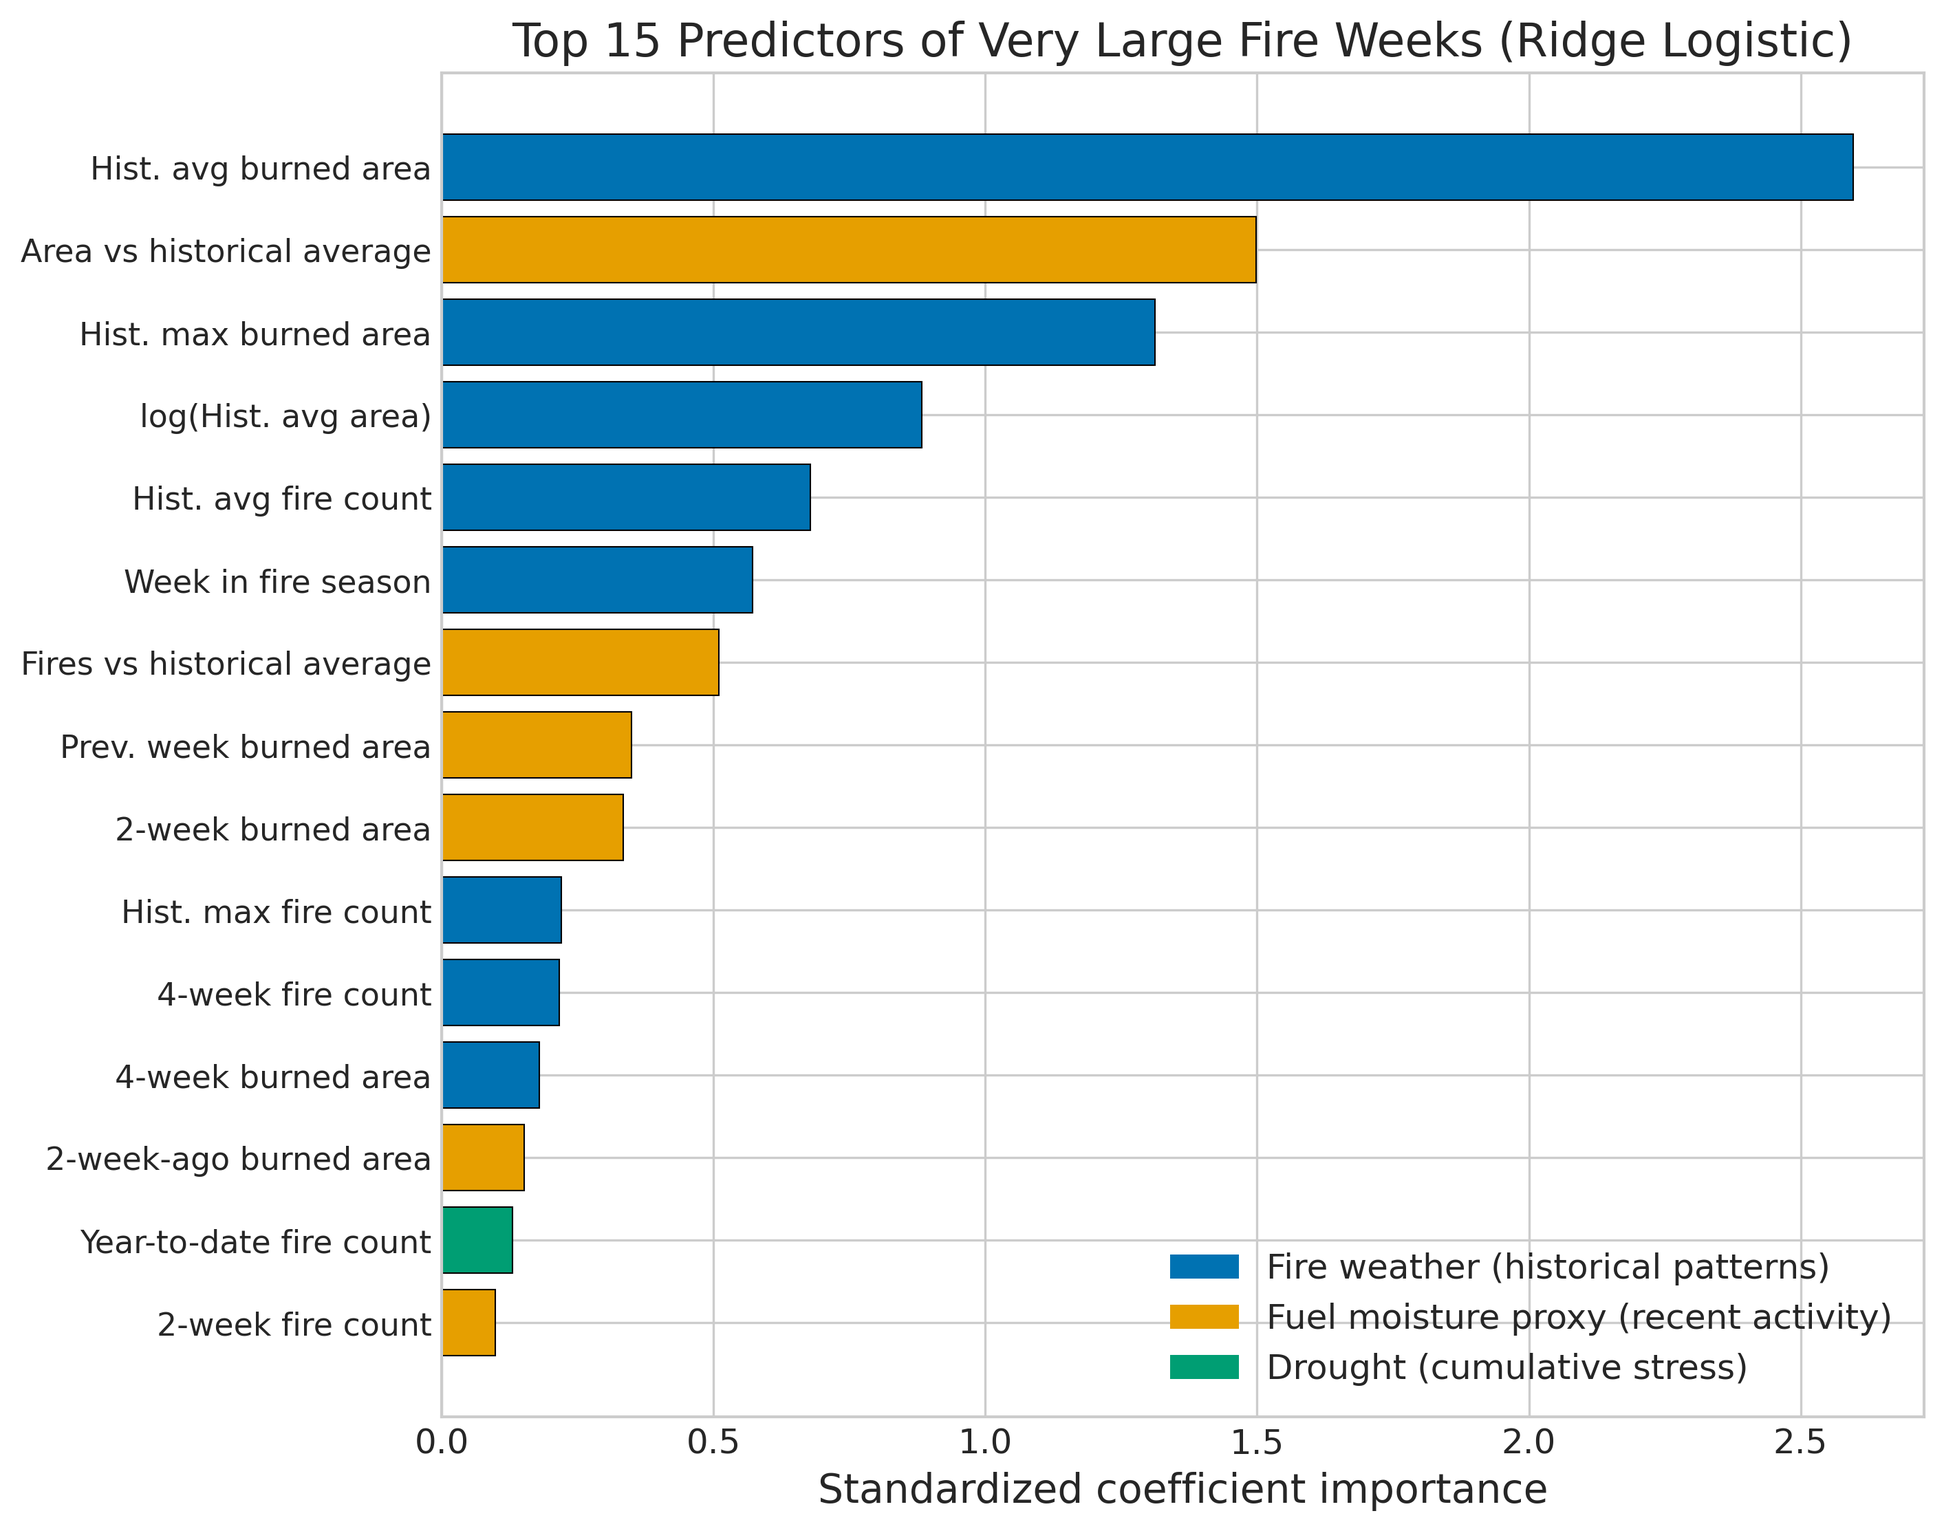
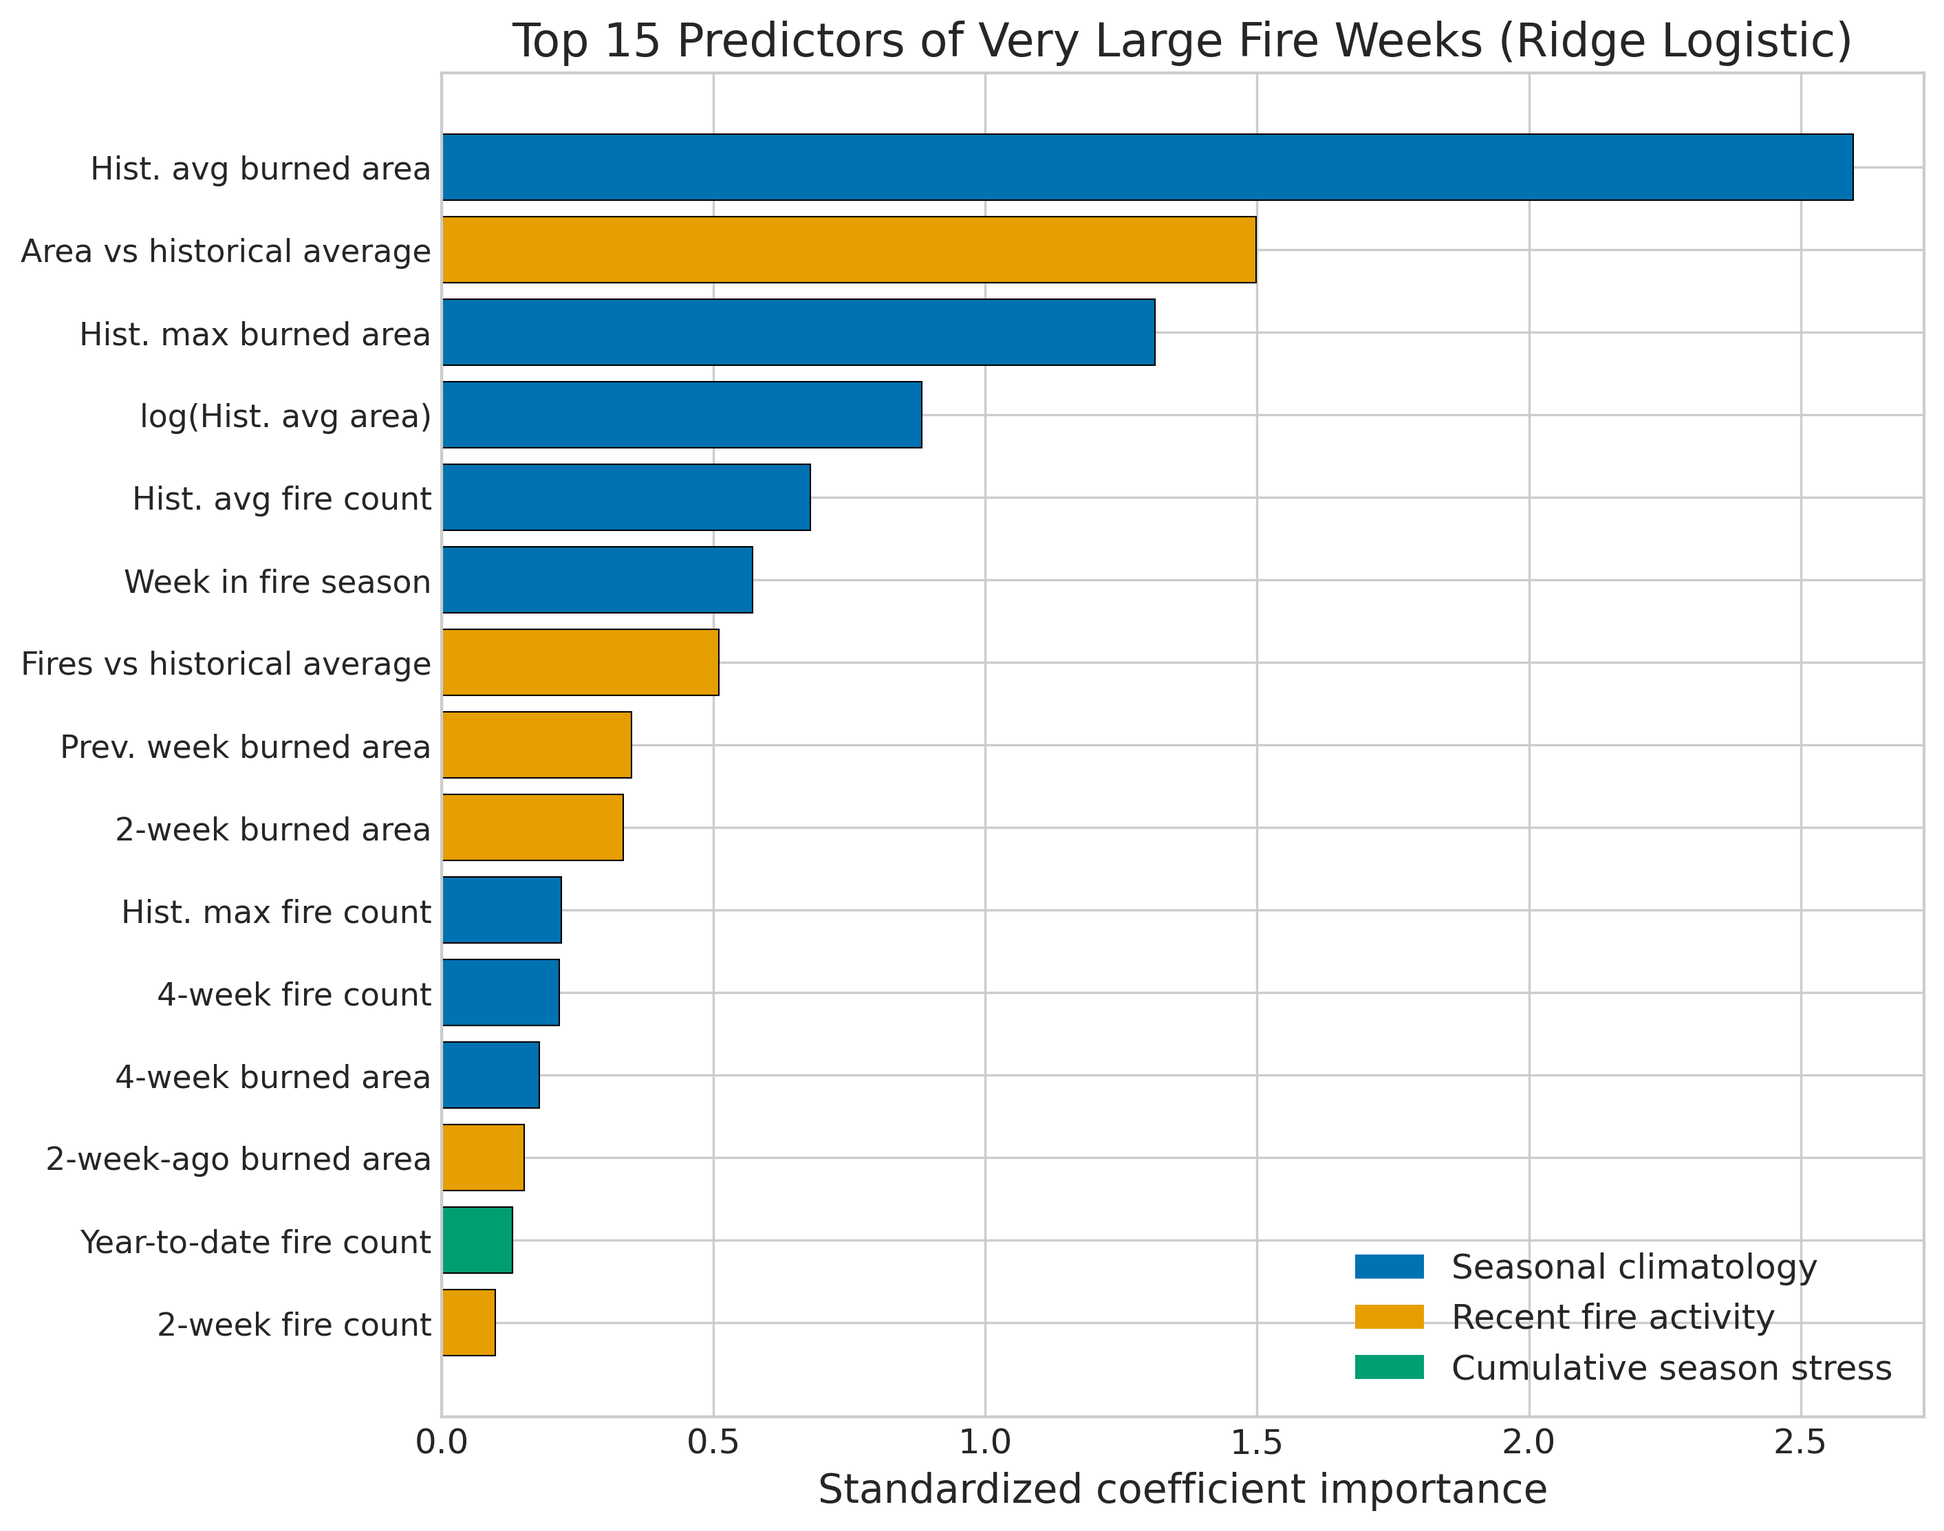
iberian-wildfire: update website summary for honest reframing
Retract "outpredicts fire weather" claim. New title reflects actual finding:
lagged fire activity outperforms seasonal climatology. Add persistence analysis
and threshold sensitivity plots. Explicitly state what study does NOT show.

Changed region(s): [[0.5916, 0.8059, 0.9653, 0.8989]]

diff --git a/content/hdr/results/iberian-wildfire/index.md b/content/hdr/results/iberian-wildfire/index.md
@@ -1,10 +1,10 @@
 ---
-title: "Recent Fire Activity Predicts Catastrophic Wildfire Weeks Better Than Historical Fire Danger"
+title: "Lagged Fire Activity Outperforms Seasonal Climatology for Predicting Catastrophic Wildfire Weeks"
 date: 2026-04-10
 weight: 6
-blurb: "Which weeks on the Iberian Peninsula produce catastrophic wildfires? We tested three predictor families using 14 years of real satellite fire data. Recent fire dynamics -- not traditional fire danger indices -- are the strongest signal."
+blurb: "Which weeks on the Iberian Peninsula produce catastrophic wildfires? We tested three predictor families derived from fire activity data using 14 years of satellite observations. Recent fire dynamics -- not historical seasonal patterns -- are the strongest signal, even after controlling for fire persistence."
 domain: "Wildfire Risk / Mediterranean Fire Ecology"
-tags: ["wildfire", "fire-risk", "Portugal", "Spain", "Iberian-Peninsula", "EFFIS", "very-large-fires", "fire-weather-index", "fuel-moisture", "MODIS", "temporal-cross-validation"]
+tags: ["wildfire", "fire-risk", "Portugal", "Spain", "Iberian-Peninsula", "EFFIS", "very-large-fires", "autoregressive", "MODIS", "temporal-cross-validation"]
 ---
 
 *This is a short summary. For the full technical write-up, see the [detailed paper](https://github.com/colinjoc/hdr_autoresearch/blob/master/applications/iberian_wildfire/paper.md).*
@@ -13,52 +13,59 @@ tags: ["wildfire", "fire-risk", "Portugal", "Spain", "Iberian-Peninsula", "EFFIS
 
 The Iberian Peninsula burns more than any other part of Western Europe. Portugal and Spain between them lose hundreds of thousands of hectares of forest every year, and in extreme years -- 2017, 2022, 2025 -- the losses reach catastrophic levels. In June 2017, the Pedrogao Grande fire killed 66 people in central Portugal. In August 2025, 22 simultaneous very large fires overwhelmed suppression capacity across northwestern Iberia.
 
-Not all fire weeks are equal. Most weeks during the fire season produce moderate burning that suppression crews can contain. But a small fraction of weeks -- roughly one in eight -- produce very large fires that account for the vast majority of total burned area and virtually all fire fatalities. If those weeks could be identified in advance, resources could be pre-positioned and alerts escalated before fires grow beyond control.
+Not all fire weeks are equal. Most weeks during the fire season produce moderate burning that suppression crews can contain. But a small fraction of weeks -- roughly one in eight -- produce very large fires (VLFs, over 5,000 hectares burned at the country level) that account for the vast majority of total burned area and virtually all fire fatalities.
 
-The standard tool is the Fire Weather Index (FWI), a system originally developed for Canadian boreal forests and now used operationally across the European Union. A competing approach uses satellite-derived live fuel moisture content (LFMC), which measures how dry the living vegetation actually is. A third approach tracks cumulative drought stress. We asked: which of these three predictor families best identifies the weeks that produce very large fires?
+We asked: what signals from fire activity data best identify these catastrophic weeks? We constructed three predictor families from satellite-detected fire observations: seasonal climatology (what usually burns each week of the year), recent fire dynamics (how current burning compares to historical norms and what burned in recent weeks), and cumulative season stress (total fire activity year-to-date). We deliberately did not include actual meteorological data (temperature, humidity, wind, the Fire Weather Index) in this study, which limits the scope of our conclusions.
 
 ## What We Found
 
-We used 14 years (2012-2025) of real weekly fire statistics from the European Forest Fire Information System (EFFIS), covering every detected wildfire in Portugal and Spain. We tested three predictor families using strict temporal cross-validation -- always training on past years and testing on future years, never allowing information leakage.
+We used 14 years (2012-2025) of real weekly fire statistics from the European Forest Fire Information System (EFFIS), covering every detected wildfire in Portugal and Spain. We tested predictor families using strict temporal cross-validation -- always training on past years and testing on future years -- with 95% bootstrap confidence intervals.
 
-- Recent fire activity dynamics -- how this week's burning compares to historical patterns, what happened last week and the week before -- far outperform traditional fire weather indices for predicting very large fire weeks. The fuel moisture proxy achieves a cross-validated area under the receiver operating characteristic curve (AUC) of 0.952, versus 0.809 for fire weather features alone.
-- Combining all three predictor families does not improve over the full baseline model. The fuel moisture proxy carries the dominant signal; adding fire weather and drought features on top provides no additional lift.
-- Gradient-boosted trees (XGBoost) achieve a cross-validated AUC of 0.993 and perfect identification of all 14 very large fire weeks in the 2025 holdout year. Logistic regression achieves AUC 0.926 -- strong but not as effective as the tree-based models.
-- The top predictors are historical average burned area for each week (capturing seasonal fire climatology), the ratio of current-week fire activity to the historical average (the anomaly signal), and previous-week burned area (the momentum signal).
+**Recent fire activity features dominate.** The ratio of current burning to historical averages, plus lagged burned area from the previous 1-2 weeks, achieves a cross-validated area under the receiver operating characteristic curve (AUC) of 0.952 (95% confidence interval: 0.934-0.968). Seasonal climatology features alone achieve AUC 0.809 (CI: 0.768-0.848). The confidence intervals do not overlap. This advantage holds with both Ridge logistic regression and XGBoost, and across VLF thresholds from 1,000 to 20,000 hectares.
 
-![Recent fire dynamics outperform fire weather indices for predicting very large fire weeks](plots/headline_finding.png)
+**But nearly half of VLF weeks are persistence events.** 47% of VLF weeks are immediately preceded by another VLF week -- the same fire burning across a weekly boundary. A trivial persistence baseline (predict VLF from last week's burned area alone) achieves AUC 0.814. When we restrict evaluation to VLF onset events only (excluding weeks that continue an existing VLF), the recent fire activity advantage persists (AUC 0.921 vs. 0.799) but the overall metrics are modestly lower. This means the model is partly detecting fires that are already burning, which is less useful operationally than predicting new VLF onset.
 
-## Why That's Surprising
+**Tree models substantially outperform linear models.** XGBoost achieves AUC 0.993 in temporal cross-validation, compared to 0.926 for Ridge logistic regression, indicating nonlinear threshold effects in VLF transitions. Per-year analysis shows XGBoost exceeds AUC 0.977 in every test year from 2015 to 2025.
 
-The expectation from the fire science literature was that fire weather -- temperature, humidity, wind, precipitation combined into the FWI system -- would be the primary predictor of which weeks produce very large fires. The FWI system is the operational standard across the European Union, and billions of euros in suppression resource allocation decisions are made on the basis of FWI forecasts.
+![Predictor family comparison: recent fire activity features outperform seasonal climatology in both Ridge and XGBoost](plots/headline_finding.png)
 
-What we found instead is that the strongest predictor of a very large fire week is what has been burning recently. This makes physical sense -- a week of active large fires indicates that the fuel moisture, wind, and drought conditions are already aligned for extreme fire behavior. But it inverts the operational logic. The current approach asks "will weather conditions support large fires?" The more predictive approach asks "are conditions already producing large fires?"
+## What This Does NOT Show
 
-The difference matters because fire weather can be extreme without producing large fires (when fuels are still green, or when ignitions are suppressed), and large fires can occur under apparently moderate fire weather (when drought has preconditioned fuels over weeks or months). Recent fire activity integrates all of these factors into a single observable signal.
+An earlier version of this paper claimed that "fuel moisture proxies outpredict fire weather indices." That claim was wrong, for three reasons:
 
-![The top predictors combine historical fire seasonality with recent fire anomalies](plots/feature_importance.png)
+1. **No actual fire weather data was used.** The seasonal climatology features (historical averages and maxima of fire activity) are not fire weather measurements. The Fire Weather Index is computed from temperature, humidity, wind, and precipitation. None of these variables were included.
 
-## What It Means
+2. **The "fuel moisture proxy" was not fuel moisture.** It was lagged fire activity -- an autoregressive feature, not a physical measurement of vegetation moisture content. Labelling it "LFMC" borrowed credibility from the remote-sensing fuel moisture literature.
 
-For fire managers on the Iberian Peninsula, this finding suggests a specific operational improvement: track not just forecasted fire weather but actual ongoing fire activity relative to seasonal expectations. When the ratio of current burning to historical average exceeds a threshold during fire season, escalate the alert level and pre-position heavy suppression resources. This "anomaly-based" alert would have correctly identified every very large fire week in the 2025 holdout test.
+3. **The comparison was between autoregressive features and a seasonal baseline.** Finding that "what is burning now" outpredicts "what usually burns this week" is expected because current conditions are more informative than long-term averages.
 
-The seasonal risk profile shows that Portugal's peak fire risk is concentrated in a narrow window from late July through September, while Spain's risk is more diffuse across the summer. Both countries show that late-season fires (September-October) are particularly dangerous when preceded by weeks of active burning -- the cumulative drought and fuel depletion create conditions for rapid fire growth.
+The revised paper uses honest terminology throughout: "recent fire activity" instead of "fuel moisture proxy," and "seasonal climatology" instead of "fire weather proxy." Whether actual meteorological fire weather indices are outperformed remains an open question requiring gridded reanalysis data.
 
-For the broader question of fire risk under climate change: if the predictive signal is dominated by recent fire activity rather than weather alone, then the increasing frequency and duration of fire seasons documented by climate projections will compound risk in a way that weather-based indices may underestimate. Each large fire week makes the next one more likely, creating a positive feedback that fixed fire weather thresholds cannot capture.
+![47% of VLF weeks are persistence events -- the same fire continuing across a weekly boundary](plots/persistence_analysis.png)
 
-![Seasonal risk profile for Portugal and Spain shows distinct fire regime patterns](plots/seasonal_risk.png)
+## Why It Still Matters
+
+Even with the corrected framing, the finding is operationally relevant. The recent fire activity features capture a real signal: when burning significantly exceeds seasonal expectations, conditions (weather, fuel moisture, drought, suppression capacity) are aligned for extreme fire behavior. This signal predicts *new* VLF onset (AUC 0.921), not just ongoing fires.
+
+For fire agencies already monitoring EFFIS weekly statistics, tracking the ratio of current fire activity to the historical average for each calendar week provides a useful alert signal. When current-week burning exceeds twice the historical average during fire season, the probability of new VLFs developing is elevated.
+
+However, this is a modest operational suggestion, not an alert system. Country-level weekly indicators lack the spatial specificity and temporal precision that operational fire management requires.
+
+![Threshold sensitivity: the advantage of recent fire activity features increases at more extreme VLF thresholds](plots/threshold_sensitivity.png)
 
 ## How We Did It
 
-We downloaded 14 years of weekly fire statistics (fire counts and burned area) from the European Forest Fire Information System (EFFIS) via the GWIS country profile API, supplemented by MODIS-derived burned area data (MCD64A1) and GlobFire event records from the GWIS data archive. All data are real satellite observations -- no synthetic data were used at any stage. We defined a "very large fire week" as a country-week with total burned area exceeding 5,000 hectares, which captures approximately 13 percent of fire-season weeks and accounts for the overwhelming majority of total burned area and fire impacts.
+We downloaded 14 years of weekly fire statistics from the European Forest Fire Information System (EFFIS) via the GWIS country profile API, supplemented by MODIS-derived burned area data (MCD64A1) and GlobFire event records. All data are real satellite observations -- no synthetic data were used. We defined a "very large fire week" as a country-week with total burned area exceeding 5,000 hectares (with sensitivity analysis at 1,000-20,000 ha).
 
-We designed three predictor families to approximate the operational fire risk concepts without requiring gridded climate reanalysis data: a fire weather proxy (historical fire danger patterns), a fuel moisture proxy (recent fire activity dynamics), and a drought proxy (cumulative year-to-date fire stress). Six model families were evaluated in a tournament using temporal cross-validation, with 2025 held out as the final test. Full data sources, code, 105 pre-registered hypotheses, and the experiment log are in the [project repository](https://github.com/colinjoc/hdr_autoresearch/tree/master/applications/iberian_wildfire).
+We designed three predictor families from fire activity data: seasonal climatology (10 features), recent fire activity (10 features), and cumulative season stress (7 features). Six model families were evaluated in a tournament using temporal cross-validation, with per-year AUC breakdown and 95% bootstrap confidence intervals. New experiments addressing persistence effects, onset-only evaluation, and threshold sensitivity were added in response to adversarial peer review.
+
+Full data sources, code, and experiment logs are in the [project repository](https://github.com/colinjoc/hdr_autoresearch/tree/master/applications/iberian_wildfire).
 
 ## Further Reading
 
-- San-Miguel-Ayanz J et al. "Forest Fires in Europe, Middle East and North Africa 2023." *JRC Technical Report* (2024). [EFFIS Annual Report](https://data.effis.emergency.copernicus.eu/effis/reports-and-publications/annual-fire-reports/Annual_Report_2023.pdf) -- the annual European fire statistics report.
 - Tedim F et al. "Defining Extreme Wildfire Events: Difficulties, Challenges, and Impacts." *Fire* (2018). [doi:10.3390/fire1010009](https://doi.org/10.3390/fire1010009) -- typology of extreme fire events.
+- Taylor SW et al. "Wildfire Prediction to Inform Fire Management: Statistical Science Challenges." *Statistical Science* (2013). -- review of time-series approaches to wildfire forecasting.
 - Turco M et al. "Decreasing Fires in Mediterranean Europe." *PLOS ONE* (2016). [doi:10.1371/journal.pone.0150663](https://doi.org/10.1371/journal.pone.0150663) -- century-scale decline in fire frequency offset by increased severity.
 
 ---
-📂 **[HDR methodology](https://github.com/colinjoc/hdr_autoresearch)**
+Full technical paper and review response available in the [project repository](https://github.com/colinjoc/hdr_autoresearch/tree/master/applications/iberian_wildfire).
